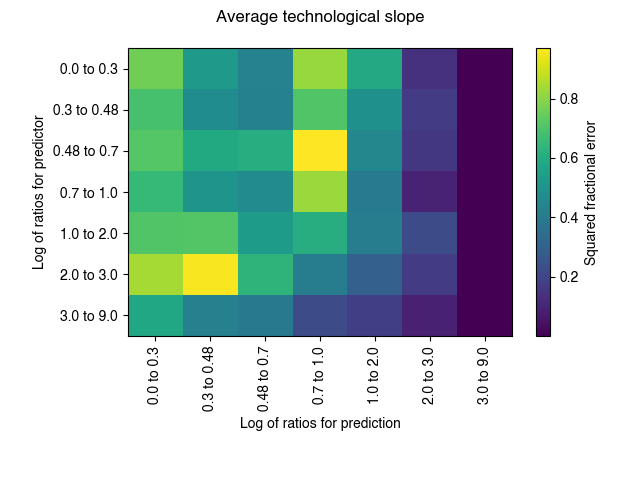
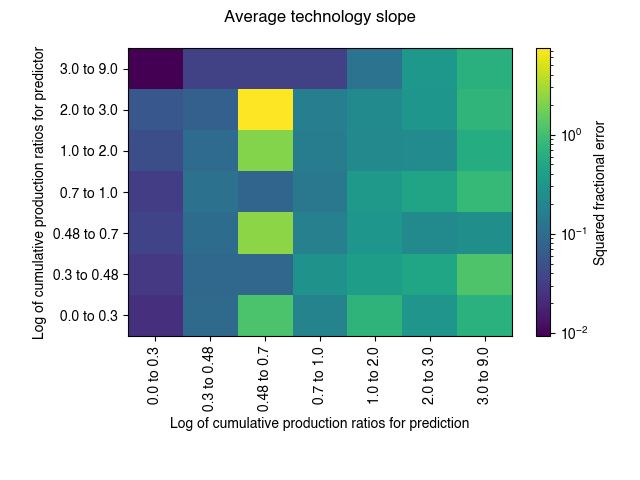
Fix error formula: improving code clarity: figures

diff --git a/Method2.py b/Method2.py
@@ -3,6 +3,7 @@ import numpy as np
 import statsmodels.api as sm
 import matplotlib.pyplot as plt
 import seaborn, scipy
+import matplotlib
 from matplotlib import rc
 rc('font',**{'family':'sans-serif','sans-serif':['Helvetica']})
 
@@ -16,27 +17,47 @@ result = model.fit()
 slopeall = result.params[1]
 
 # get error using technology specific slope
-count = 0
 dferr = []
+dferr2 = []
 for tech in df['Tech'].unique():
     sel = df.loc[df['Tech']==tech]
     x = np.log10(sel['Cumulative production'].values)
     y = np.log10(sel['Unit cost'].values)
     H = len(x)
+    i = round(H/2) - 1
     # select N points before midpoint and compute slope
-    for N in range(1, round(H/2)):
-        slope = (y[round(H/2)-1] - y[round(H/2)-N-1]) /\
-            (x[round(H/2)-1] - x[round(H/2)-N-1])
+    for N in range(i-1, -1, -1):
+        slope = (y[i] - y[N]) /\
+            (x[i] - x[N])
+        # slope = slopeall.copy()
         # compute error associated using slope M points after midpoint
-        for M in range(round(H/2),H):
-            error = (10**(y[M] - y[round(H/2)-1] -\
-                slopeall * (x[M] - x[round(H/2)-1])))**2
-            dferr.append([x[round(H/2)-1] - x[round(H/2)-N-1],
-                         x[M] - x[round(H/2)-1],
+        for M in range(i+1,H):
+            pred =  y[i] + slope * (x[M] - x[i])
+            pred2 =  y[i] + slopeall * (x[M] - x[i])
+            error = (y[M] / (pred) - 1)**2
+            error2 = (y[M] / (pred2) - 1)**2
+            dferr.append([x[i] - x[N],
+                         x[M] - x[i],
                          error])
-            count += 1
+            dferr2.append([x[i] - x[N],
+                         x[M] - x[i],
+                         error2])
+            # if error > 100:
+            #     print(error, y[M] , pred)
+            #     plt.scatter(x, y, alpha=0.2)
+            #     plt.scatter([x[i] , x[N]],
+            #                 [y[i] , y[N]])
+            #     plt.scatter(x[M], y[M], color='red')
+            #     plt.plot(x[N:], y[i] +\
+            #     slope * (x[N:] - x[i]))
+            #     plt.scatter(x[M], pred, color='red', marker='X')
+            #     plt.show()
 
 dferr = pd.DataFrame(dferr, 
+                     columns = ['Log of ratios for predictor',
+                                'Log of ratios for prediction',
+                                'Squared fractional error'])
+dferr2 = pd.DataFrame(dferr2, 
                      columns = ['Log of ratios for predictor',
                                 'Log of ratios for prediction',
                                 'Squared fractional error'])
@@ -44,43 +65,91 @@ dferr = pd.DataFrame(dferr,
 # select ratios to be plotted
 frac = np.log10([1, 2, 3, 5, 10, 1e2, 1e3, 1e9])
 
-mean = np.empty((len(frac)-1,len(frac)-1))
+mean1 = np.empty((len(frac)-1,len(frac)-1))
+mean2 = np.empty((len(frac)-1,len(frac)-1))
+meandiff = np.empty((len(frac)-1,len(frac)-1))
 count = np.empty((len(frac)-1,len(frac)-1))
 for i in range(1, len(frac)):
     for j in range(1, len(frac)):
-        select = dferr.loc[
+        select1 = dferr.loc[
             (dferr['Log of ratios for predictor']>frac[i-1]) &\
             (dferr['Log of ratios for predictor']<=frac[i]) & \
             (dferr['Log of ratios for prediction']>frac[j-1]) &\
             (dferr['Log of ratios for prediction']<=frac[j])]
-        mean[i-1,j-1] = np.mean(select['Squared fractional error'].values)
-        count[i-1,j-1] = (select['Squared fractional error'].count())
+        select2 = dferr2.loc[
+            (dferr2['Log of ratios for predictor']>frac[i-1]) &\
+            (dferr2['Log of ratios for predictor']<=frac[i]) & \
+            (dferr2['Log of ratios for prediction']>frac[j-1]) &\
+            (dferr2['Log of ratios for prediction']<=frac[j])]
+        mean1[i-1,j-1] = np.mean(select1['Squared fractional error'].values)
+        mean2[i-1,j-1] = np.mean(select2['Squared fractional error'].values)
+        meandiff[i-1,j-1] = np.mean(select2['Squared fractional error'].values - 
+                                    select1['Squared fractional error'].values)
+        count[i-1,j-1] = (select1['Squared fractional error'].count())
         # if count[i-1, j-1] < 10:
         #     count[i-1,j-1] = np.nan
         #     mean[i-1,j-1] = np.nan
 
-print(frac)
-im = plt.imshow(mean, aspect='auto')
+plt.figure()
+mean = mean1[::-1,:]
+im = plt.imshow(mean, aspect='auto', norm='log')
 plt.gca().set_xticks([x for x in range(7)], 
         [str(round(x,2))+' to '+str(round(y,2)) for x, y in zip(frac[:-1], frac[1:])],
         rotation = 90)
 plt.gca().set_yticks([x for x in range(7)], 
-        [str(round(x,2))+' to '+str(round(y,2)) for x, y in zip(frac[:-1], frac[1:])])
-plt.xlabel('Log of ratios for prediction')
-plt.ylabel('Log of ratios for predictor')
+        [str(round(x,2))+' to '+str(round(y,2)) for x, y in zip(frac[:-1], frac[1:])][::-1])
+plt.xlabel('Log of cumulative production ratios for prediction')
+plt.ylabel('Log of cumulative production ratios for predictor')
 cbar = plt.colorbar(im)
 cbar.set_label('Squared fractional error')
 plt.subplots_adjust(bottom=0.3, left=0.2, right=0.95, top=0.9)
-plt.suptitle('Average technological slope')
+plt.suptitle('Technology-specific slope')
 
-# plt.figure()
-# im = plt.imshow(count)
-# plt.gca().set_xticks([x for x in range(7)], 
-#         [str(round(x,2))+' to '+str(round(y,2)) for x, y in zip(frac[:-1], frac[1:])],
-#         rotation = 90)
-# plt.gca().set_yticks([x for x in range(7)], 
-#         [str(round(x,2))+' to '+str(round(y,2)) for x, y in zip(frac[:-1], frac[1:])])
-# plt.colorbar(im)
+plt.figure()
+mean = mean2[::-1,:]
+im = plt.imshow(mean, aspect='auto', norm='log')
+plt.gca().set_xticks([x for x in range(7)], 
+        [str(round(x,2))+' to '+str(round(y,2)) for x, y in zip(frac[:-1], frac[1:])],
+        rotation = 90)
+plt.gca().set_yticks([x for x in range(7)], 
+        [str(round(x,2))+' to '+str(round(y,2)) for x, y in zip(frac[:-1], frac[1:])][::-1])
+plt.xlabel('Log of cumulative production ratios for prediction')
+plt.ylabel('Log of cumulative production ratios for predictor')
+cbar = plt.colorbar(im)
+cbar.set_label('Squared fractional error')
+plt.subplots_adjust(bottom=0.3, left=0.2, right=0.95, top=0.9)
+plt.suptitle('Average technology slope')
+
+plt.figure()
+mean = meandiff[::-1,:]
+divnorm = matplotlib.colors.TwoSlopeNorm(vcenter=0)
+im = plt.imshow(mean, aspect='auto', norm=divnorm, cmap='RdBu')
+plt.gca().set_xticks([x for x in range(7)], 
+        [str(round(x,2))+' to '+str(round(y,2)) for x, y in zip(frac[:-1], frac[1:])],
+        rotation = 90)
+plt.gca().set_yticks([x for x in range(7)], 
+        [str(round(x,2))+' to '+str(round(y,2)) for x, y in zip(frac[:-1], frac[1:])][::-1])
+plt.xlabel('Log of cumulative production ratios for prediction')
+plt.ylabel('Log of cumulative production ratios for predictor')
+cbar = plt.colorbar(im)
+cbar.set_label('Squared fractional error')
+plt.subplots_adjust(bottom=0.3, left=0.2, right=0.95, top=0.9)
+plt.suptitle('Average technology - Technology-specific')
+
+count = count[::-1,:]
+
+plt.figure()
+im = plt.imshow(np.log10(count), aspect='auto')
+plt.gca().set_xticks([x for x in range(7)], 
+        [str(round(x,2))+' to '+str(round(y,2)) for x, y in zip(frac[:-1], frac[1:])],
+        rotation = 90)
+plt.gca().set_yticks([x for x in range(7)], 
+        [str(round(x,2))+' to '+str(round(y,2)) for x, y in zip(frac[:-1], frac[1:])][::-1])
+plt.xlabel('Log of cumulative production ratios for prediction')
+plt.ylabel('Log of cumulative production ratios for predictor')
+cbar = plt.colorbar(im)
+cbar.set_label('Log of bin size')
+plt.subplots_adjust(bottom=0.3, left=0.2, right=0.95, top=0.9)
 
 plt.show()
 
